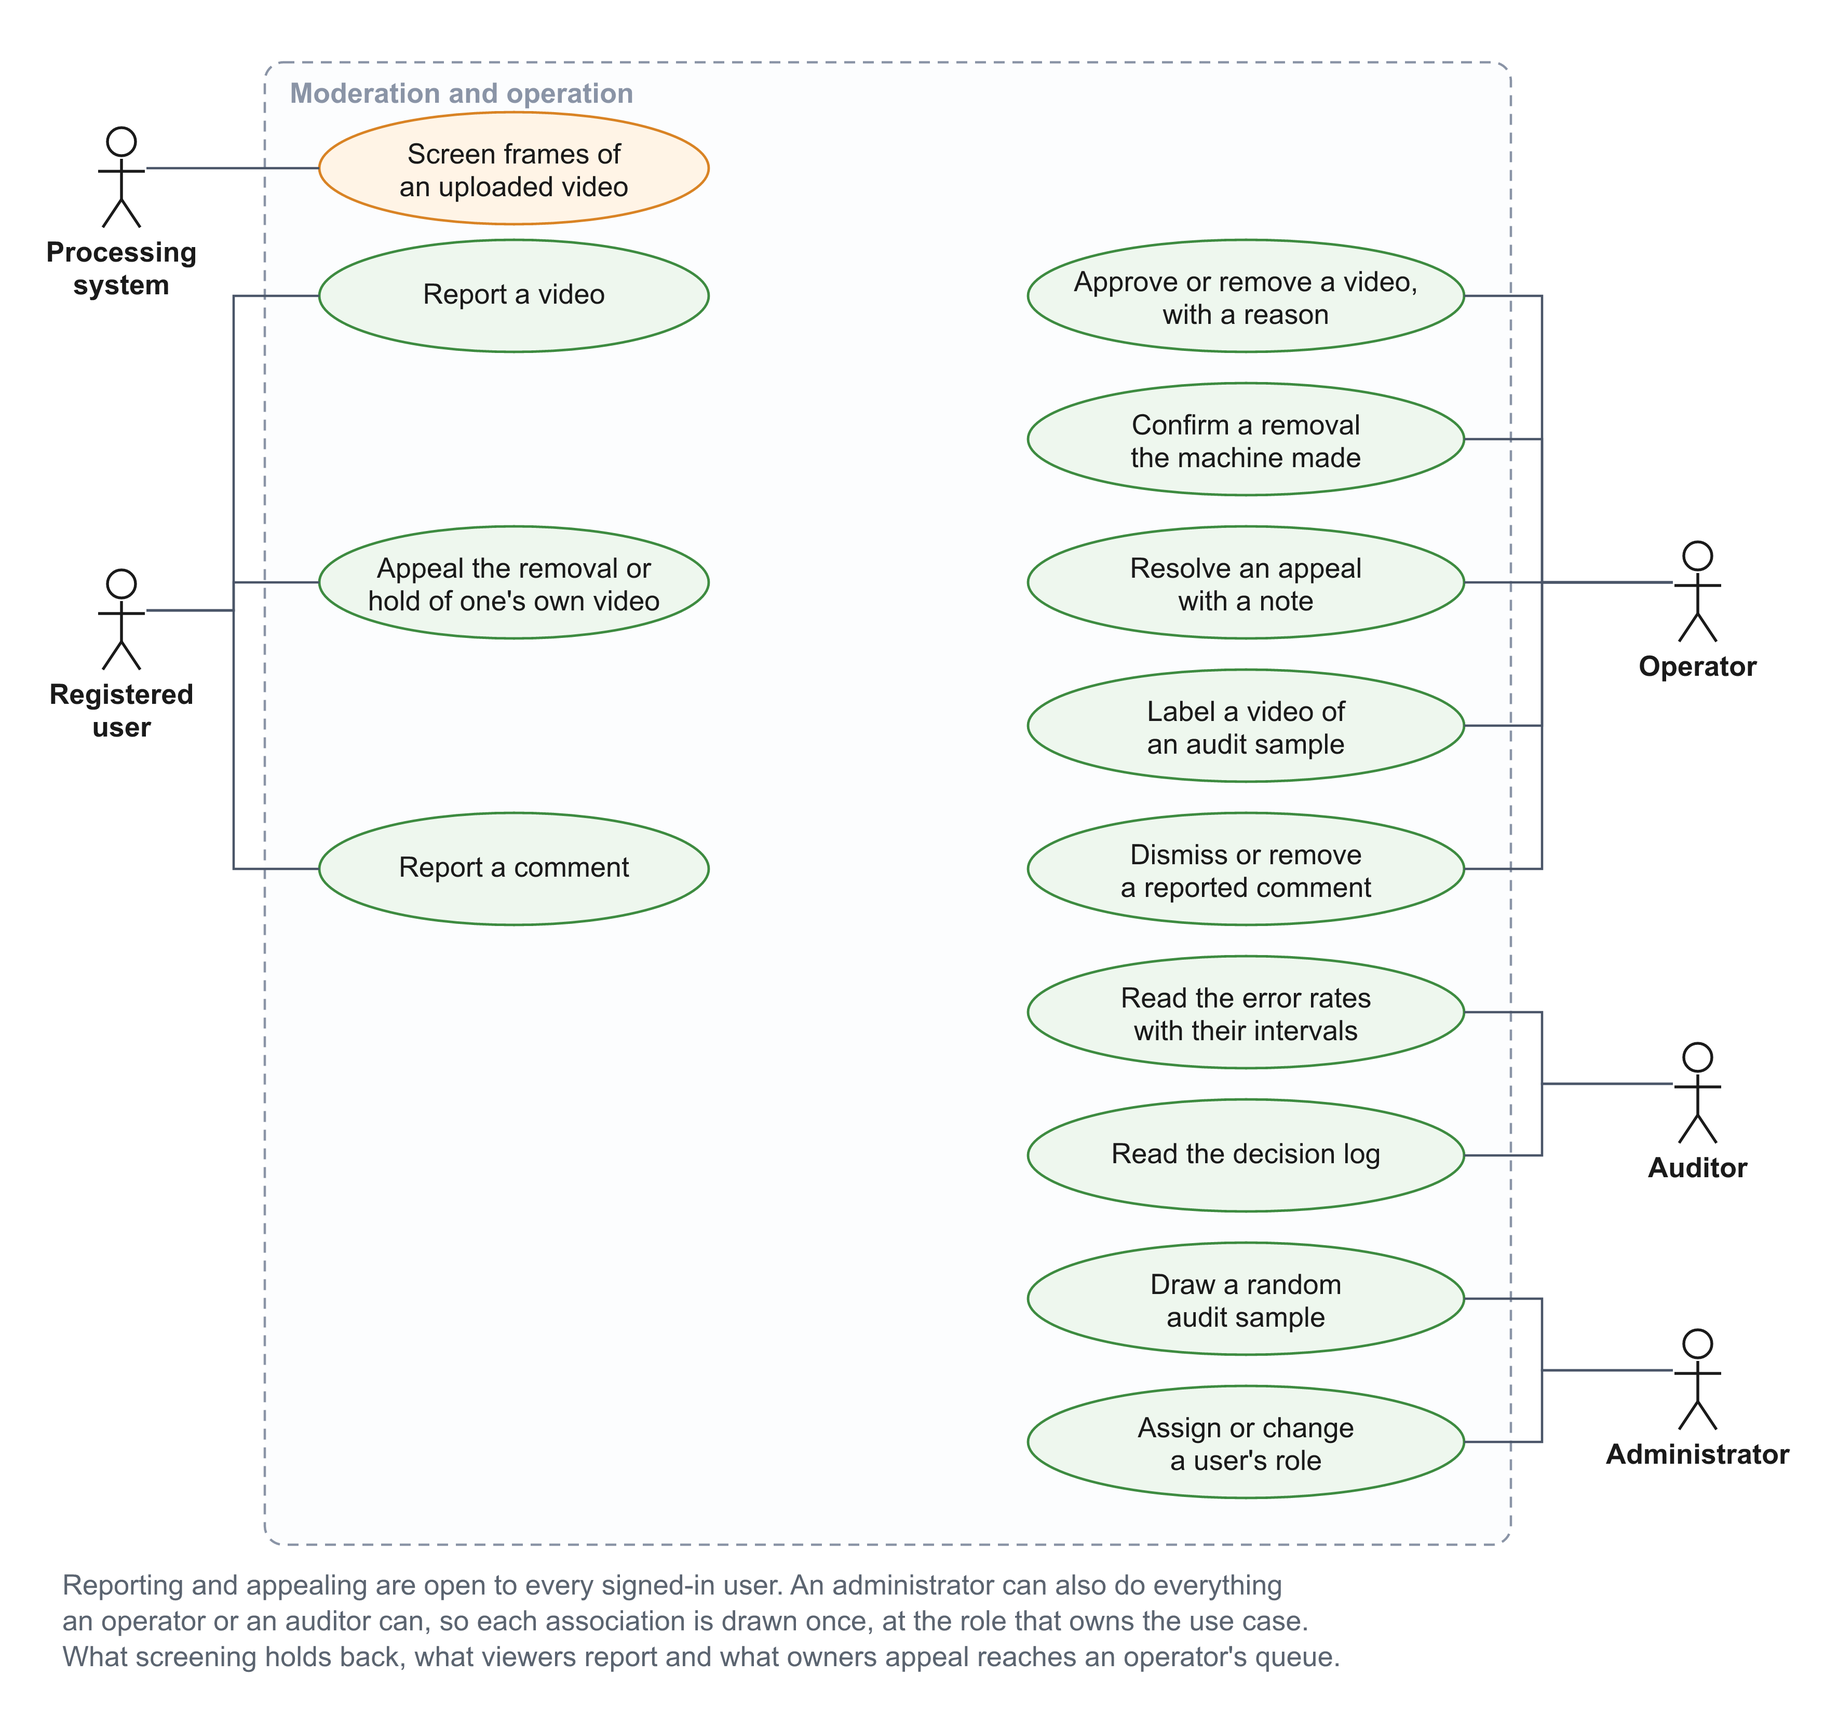
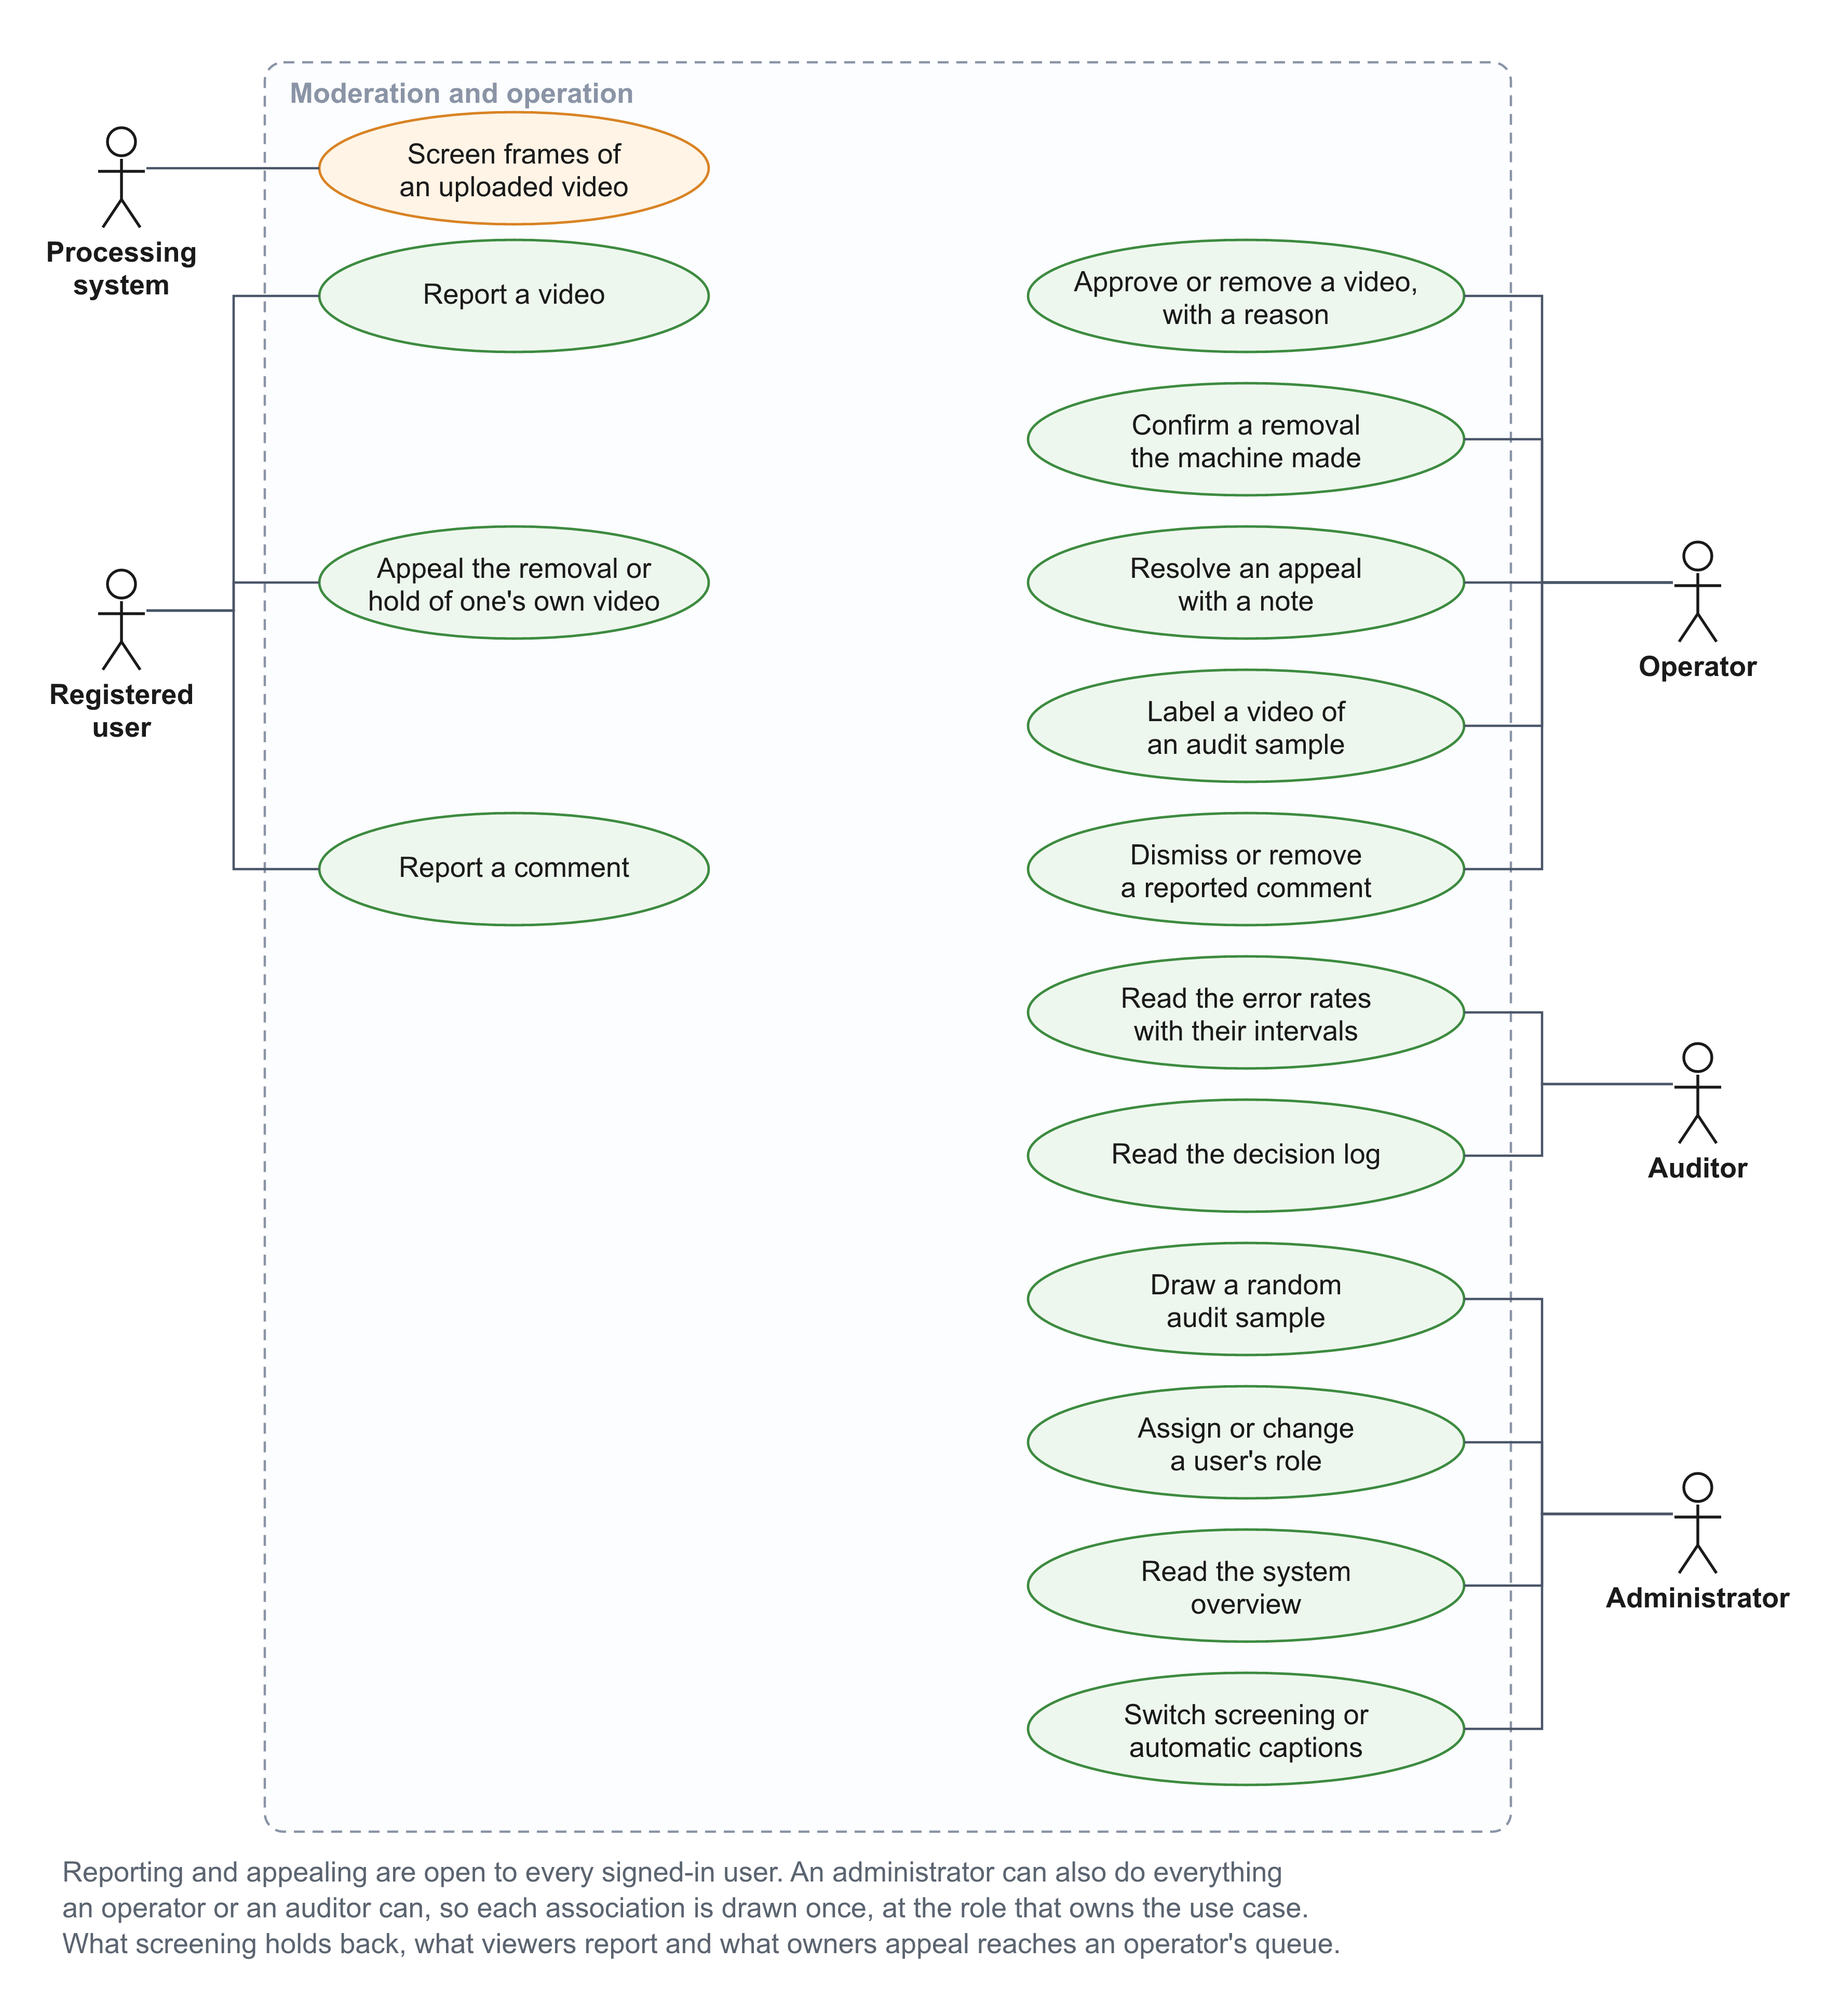
docs(report): add the overview and the runtime switches to the requirements

diff --git a/report/chapters/chap3.tex b/report/chapters/chap3.tex
@@ -27,7 +27,7 @@ Viewer (registered user) & Take part: react, comment, subscribe, join membership
 Creator (registered user) & Upload large files without waiting, decide who sees each video, edit and schedule it, earn members, read analytics, appeal a moderation decision; on a paid plan, larger and longer videos, automatic captions and faster processing & FR-03, FR-04, FR-06 to FR-08, FR-13, FR-15, FR-16, FR-21, FR-24 to FR-26, NFR-02, NFR-03, NFR-11 \\
 Operator & A queue of what the screening held back or viewers reported, and a way to decide with a reason and resolve appeals & FR-18 to FR-21 \\
 Auditor & The error rates of the screening with their uncertainty, and a decision log that cannot be altered & FR-22 \\
-Administrator & Assign staff roles and draw random audit samples & FR-22, FR-23 \\
+Administrator & Assign staff roles, draw random audit samples, follow the platform at a glance and switch the services billed per use & FR-22, FR-23, FR-27, FR-28 \\
 Development team & A system that costs almost nothing while idle, is reproducible from code, observable and safe to change & NFR-04 to NFR-11 \\
 \bottomrule
 \end{tabularx}
@@ -123,7 +123,7 @@ FR-23 & Role management & An administrator assigns the roles user, operator, aud
 \end{tabularx}
 \end{table}
 
-Table~\ref{tab:functional-requirements-plans} ends the list with the platform plans, which set how
+Table~\ref{tab:functional-requirements-plans} continues with the platform plans, which set how
 far each creator may use the costly parts of the system.
 
 \begin{table}[H]
@@ -138,6 +138,24 @@ far each creator may use the costly parts of the system.
 FR-24 & Plans and payment & Four plans, Free, Plus, Pro and Max, set the largest upload, the longest video, the number of membership tiers, the analytics window, the minutes of automatic captions and the processing priority. A user buys a paid plan monthly on a hosted checkout page, and changes or cancels it on a hosted portal; a paid plan stays until the end of the paid period. Accounts created before the plans existed keep the limits they had. \\
 FR-25 & Automatic captions & On a plan that includes them, a published video with sound gets captions in Vietnamese or English without any action of the owner, within the monthly minutes of the plan; a caption the owner uploads replaces the automatic one. \\
 FR-26 & Priority and length limits & When processing capacity is short, the videos of paid plans are served before those of the free plan; a video longer than the plan allows is refused after its duration is read, with the reason shown to the owner. \\
+\bottomrule
+\end{tabularx}
+\end{table}
+
+Table~\ref{tab:functional-requirements-admin} ends the list with what an administrator needs to run
+the platform as a whole rather than one video at a time.
+
+\begin{table}[H]
+\centering
+\caption{Functional requirements of platform administration}
+\label{tab:functional-requirements-admin}
+\small
+\begin{tabularx}{\textwidth}{p{0.07\textwidth} p{0.2\textwidth} X}
+\toprule
+\textbf{ID} & \textbf{REQUIREMENT} & \textbf{DESCRIPTION} \\
+\midrule
+FR-27 & System overview & An administrator sees, over the last 7, 30 or 90 days, the users and the new sign-ups, the users of each plan with the monthly revenue, the videos by state with the uploads, failures and median processing time, the screening outcomes, the caption minutes used and the views, with one chart per day. \\
+FR-28 & Runtime switches & An administrator turns automatic screening and automatic captions on or off without a deployment; a change applies to the videos processed or published after it, shows its cost, and is logged with who made it. \\
 \bottomrule
 \end{tabularx}
 \end{table}
@@ -237,9 +255,9 @@ owner of a removed video. Each staff use case is drawn once, at the role that ow
 \subsection{Use Case Specifications}
 \label{sec:use-case-specs}
 
-The use cases are specified in Tables~\ref{tab:uc-register} to \ref{tab:uc-auto-captions}. Closely related
+The use cases are specified in Tables~\ref{tab:uc-register} to \ref{tab:uc-switches}. Closely related
 use cases of the diagrams are specified together, for example liking, commenting and replying, so
-that twenty-two specifications cover the diagrams. Each lists its actor, the requirements it serves, the
+that twenty-four specifications cover the diagrams. Each lists its actor, the requirements it serves, the
 main flow and the alternative flows, numbered after the step they branch from.
 
 \begin{table}[H]
@@ -810,7 +828,7 @@ Postcondition & The role is changed, and the change is logged. \\
 \end{tabularx}
 \end{table}
 
-The last two use cases come from the platform plans: buying a plan (Table~\ref{tab:uc-plan}) and
+Two use cases come from the platform plans: buying a plan (Table~\ref{tab:uc-plan}) and
 the automatic captions that a paid plan brings (Table~\ref{tab:uc-auto-captions}).
 
 \begin{table}[H]
@@ -868,6 +886,59 @@ Alternative flows &
   4a. The job fails: the reserved minutes are given back. \newline
   4b. The owner uploads a caption in the same language later: it replaces the automatic one. \\
 Postcondition & The video has an automatic caption track, or nothing was spent. \\
+\bottomrule
+\end{tabularx}
+\end{table}
+
+The last two use cases belong to the administrator who runs the platform: reading the overview
+(Table~\ref{tab:uc-overview}) and switching the services billed per use (Table~\ref{tab:uc-switches}).
+
+\begin{table}[H]
+\centering
+\caption{Use case UC-23: read the system overview}
+\label{tab:uc-overview}
+\small
+\begin{tabularx}{\textwidth}{p{0.2\textwidth} X}
+\toprule
+\textbf{FIELD} & \textbf{CONTENT} \\
+\midrule
+Actor & Administrator \\
+Requirements & FR-27 \\
+Precondition & The person is signed in as an administrator. \\
+Main flow &
+  1. The administrator opens the overview tab of the staff console, which shows the last 30 days. \newline
+  2. The server counts users, plans, videos, screening outcomes, caption minutes and views from the documents at that moment. \newline
+  3. The page shows the totals, the most common processing errors and one bar chart per day for sign-ups, uploads and views, with the same numbers as a table. \newline
+  4. The administrator switches the window to 7 or 90 days. \\
+Alternative flows &
+  1a. An operator or an auditor asks for the overview: the server answers 403 and the tab is not shown. \newline
+  4a. Another window is asked for: the server answers 400. \\
+Postcondition & None; nothing is changed. \\
+\bottomrule
+\end{tabularx}
+\end{table}
+
+\begin{table}[H]
+\centering
+\caption{Use case UC-24: switch screening or automatic captions}
+\label{tab:uc-switches}
+\small
+\begin{tabularx}{\textwidth}{p{0.2\textwidth} X}
+\toprule
+\textbf{FIELD} & \textbf{CONTENT} \\
+\midrule
+Actor & Administrator \\
+Requirements & FR-28, NFR-11 \\
+Precondition & The person is signed in as an administrator. \\
+Main flow &
+  1. The administrator opens the settings tab, which shows each switch, whether it comes from the console or from the default of the infrastructure, its cost and the history of changes. \newline
+  2. The administrator turns a switch on or off and confirms. \newline
+  3. The server stores the switch and appends the change, with who made it, to a log that is never updated. \newline
+  4. The next video that starts processing is screened or not accordingly, and the next published video gets automatic captions or not. \\
+Alternative flows &
+  2a. The infrastructure has removed the trigger of automatic captions: the switch is locked, and the server answers 409 if asked to turn it on. \newline
+  3a. The value is already the one in force: it is stored and no change is logged. \\
+Postcondition & The switch is in force for later videos, and the change is logged. \\
 \bottomrule
 \end{tabularx}
 \end{table}
